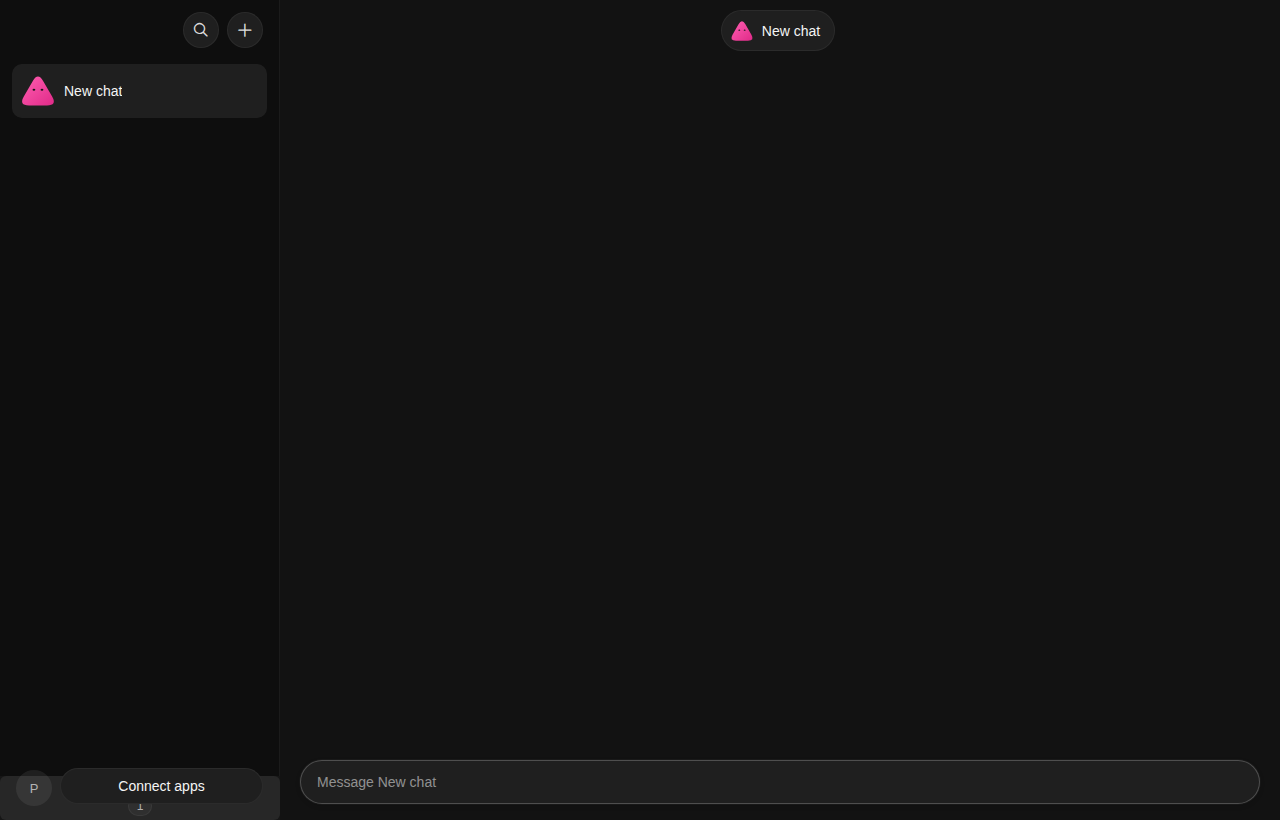
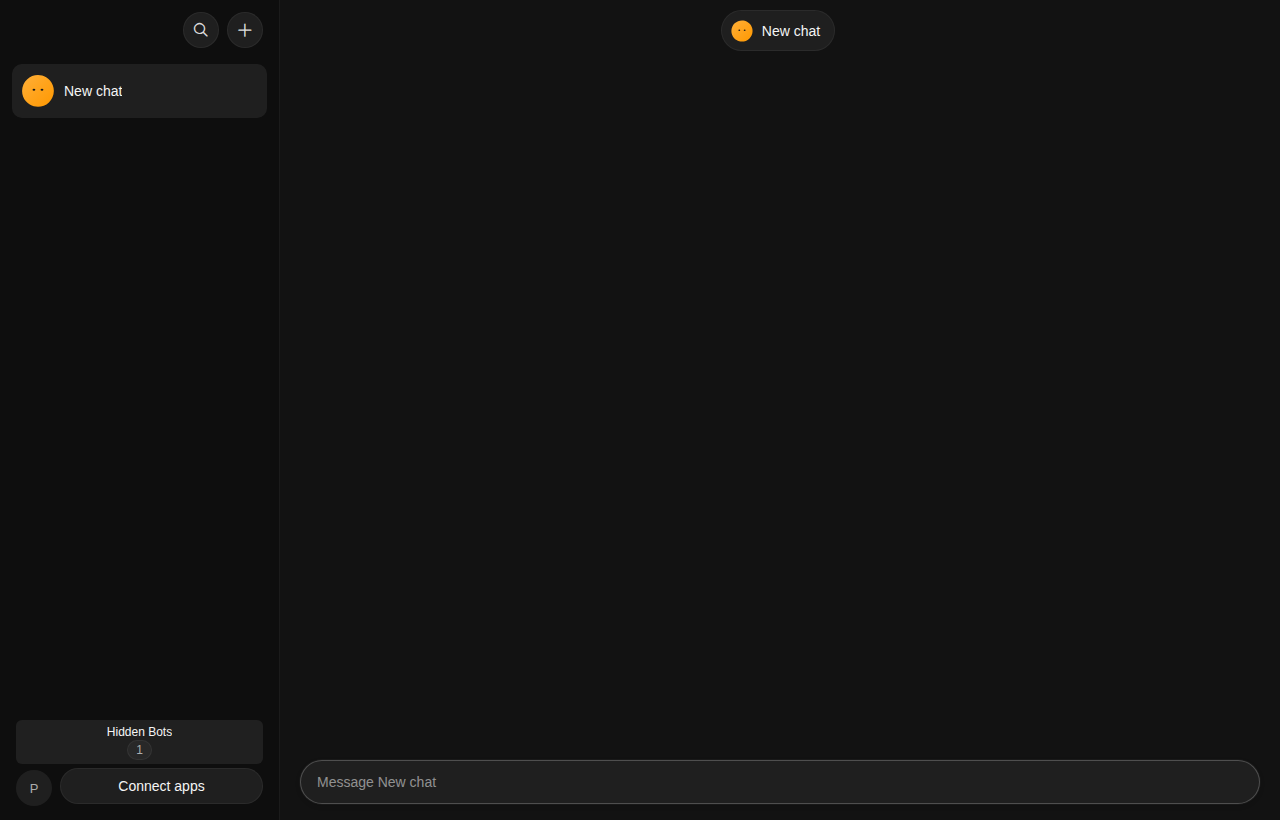
chore(receipt): T41d 回执——按钮入位+解 28 钉死+五点断言+变异红

diff --git a/work/tickets/receipts/T41d.receipt.md b/work/tickets/receipts/T41d.receipt.md
@@ -1,0 +1,60 @@
+# 回执 T41d：Hidden Bots 侧栏按钮入位 + 断言加严 + 对话框一条不滚动
+
+> 施工：main (GLM 5.3) | 完成时间：2026-11-09
+> 分支 / 提交：`feat/T41` @ dd93ac50（续 9acca0d2，worktree /tmp/bot-wt/T41）
+> 工单：`doing/T41d-hidden-bots-sidebar-button.md`（T41c 第 2 次）
+
+## 1. 根因（e2e 实测定案，非猜测）
+
+**现象 2（按钮被压）**：布局 dump 实测——底栏两元素（account `left:16/bottom:16`、plugins-entry `left:60/right:17/bottom:16`）是 **absolute z:3**，来源是**我们自己的 P5-55 布局覆盖**（`overrides/p5-55-layout.css:74/:90`，上游 css 与 style 标签均无 absolute——matched-rule 遍历实证）；而 Hidden Bots 按钮挂在 Renderer grid 第 2 行**正常流**（sidebar b=776 之后、视口底 820），与底栏（t=768-804）交叠 28px 被盖。
+
+**顺带项（一条滚动）**：list 被压 28px（row 46 装不下）——产物 CSS 实测 `.sand-exx8yu { height: var(--cursor-height-lg) }`（=28px，图标尺寸类）命中对话框 body 容器，把它钉死。
+
+## 2. 修法（按根因，不堆压）
+
+1. `overrides/p5-55-layout.css` 追加一段：按钮（`button:has([aria-label$=" hidden bots"])`，页面唯一）入**同一 absolute 布局层**——`left:16/right:17/bottom:56/z:3`（bottom 56 = 底栏高 36 + 底距 16 + 间隙 4；左右与 plugins-entry 同参）。挂载处未动（ProductionRenderer 不改）。
+2. `hidden-chats/overlay/view.css`：`.sand-hidden-chats-dialog > div:not(header) { height: auto !important }` 解 28px 钉死（修后 dialog 158px、body/list 46px 恰装一条，`height:fit-content` 试验无效已撤——28 钉死才是根因）。
+
+## 3. 验收证据
+
+### 3.1 先红（9acca0d2 上加严断言）
+
+```text
+Error: 五点全命中（四角+中心）   ← ③c：四角+中心 5 点 elementFromPoint（上半被底栏盖）
+```
+
+### 3.2 验收 1（双层全过）
+
+```text
+✓ 1 passed (8.8s)   ← ③（中心）③a（Hidden Bots 文字 visible）③b（boundingBox 视口+侧栏列内）
+                        ③c（五点全命中）④（sh=46 ≤ ch=46 一条不滚动）
+```
+
+### 3.3 验收 2（变异 V）
+
+撤 p5-55-layout.css 的 T41d 段（rebuild）：
+```text
+Error: 五点全命中（四角+中心）   → 1 failed
+```
+还原 rebuild：`1 passed (8.2s)`。
+
+### 3.4 验收 3（回归）
+
+```text
+run-e2e.sh dead-entries + p6-workers：3 passed (1.5m)
+```
+
+### 3.5 截图
+
+四张重生成（spec 内）。hidden.*：按钮整颗在底栏上方一排（文字+徽标完整）；dialog.*：一条完整无滚动。经理亲验。
+
+## 4. 与原版位置对照（工单要求写明锚点）
+
+- 按钮挂载点即 0.18 重构树原位（`ProductionRenderer.tsx:3452`——@evidence 该文件源码）；0.78.1 已拆产物（/tmp/t41c-probe）类名每版重排、无语义类可对。
+- absolute 布局参照系是我们自己的 `p5-55-layout.css:74/:90`（P5-55 轮已定的底栏锚点）——原版像素不可考（同 T41c 存疑），对齐自有布局层，参数成体系。
+
+## 5. 产出
+
+- `overrides/p5-55-layout.css`（T41d 段）、`hidden-chats/overlay/view.css`（解钉一行）
+- `tests/e2e/grok-hidden-bots.spec.ts`（③a-c/④ 加严）
+- 四张截图
